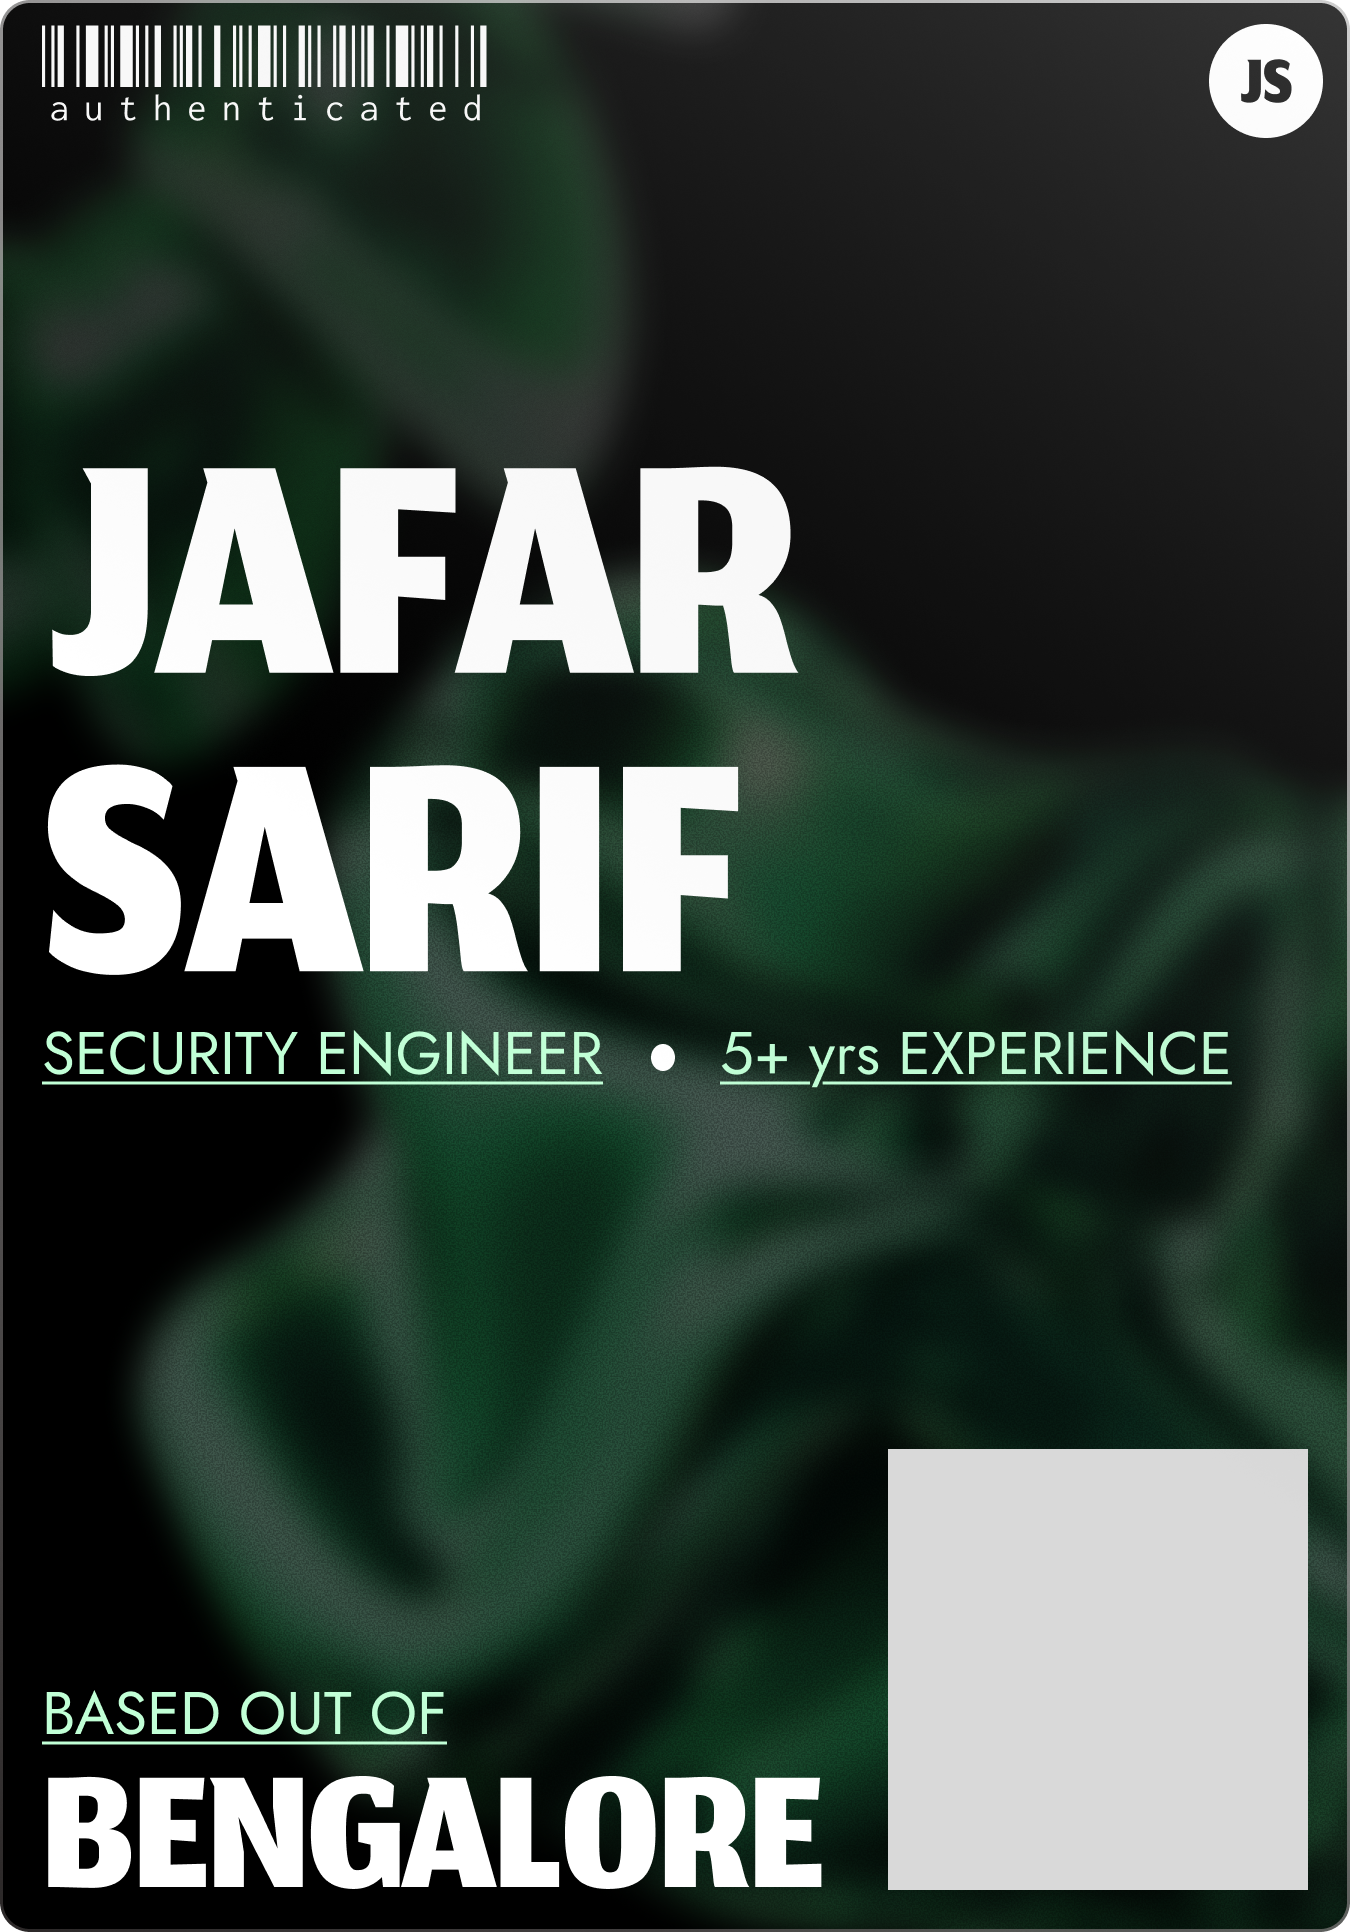
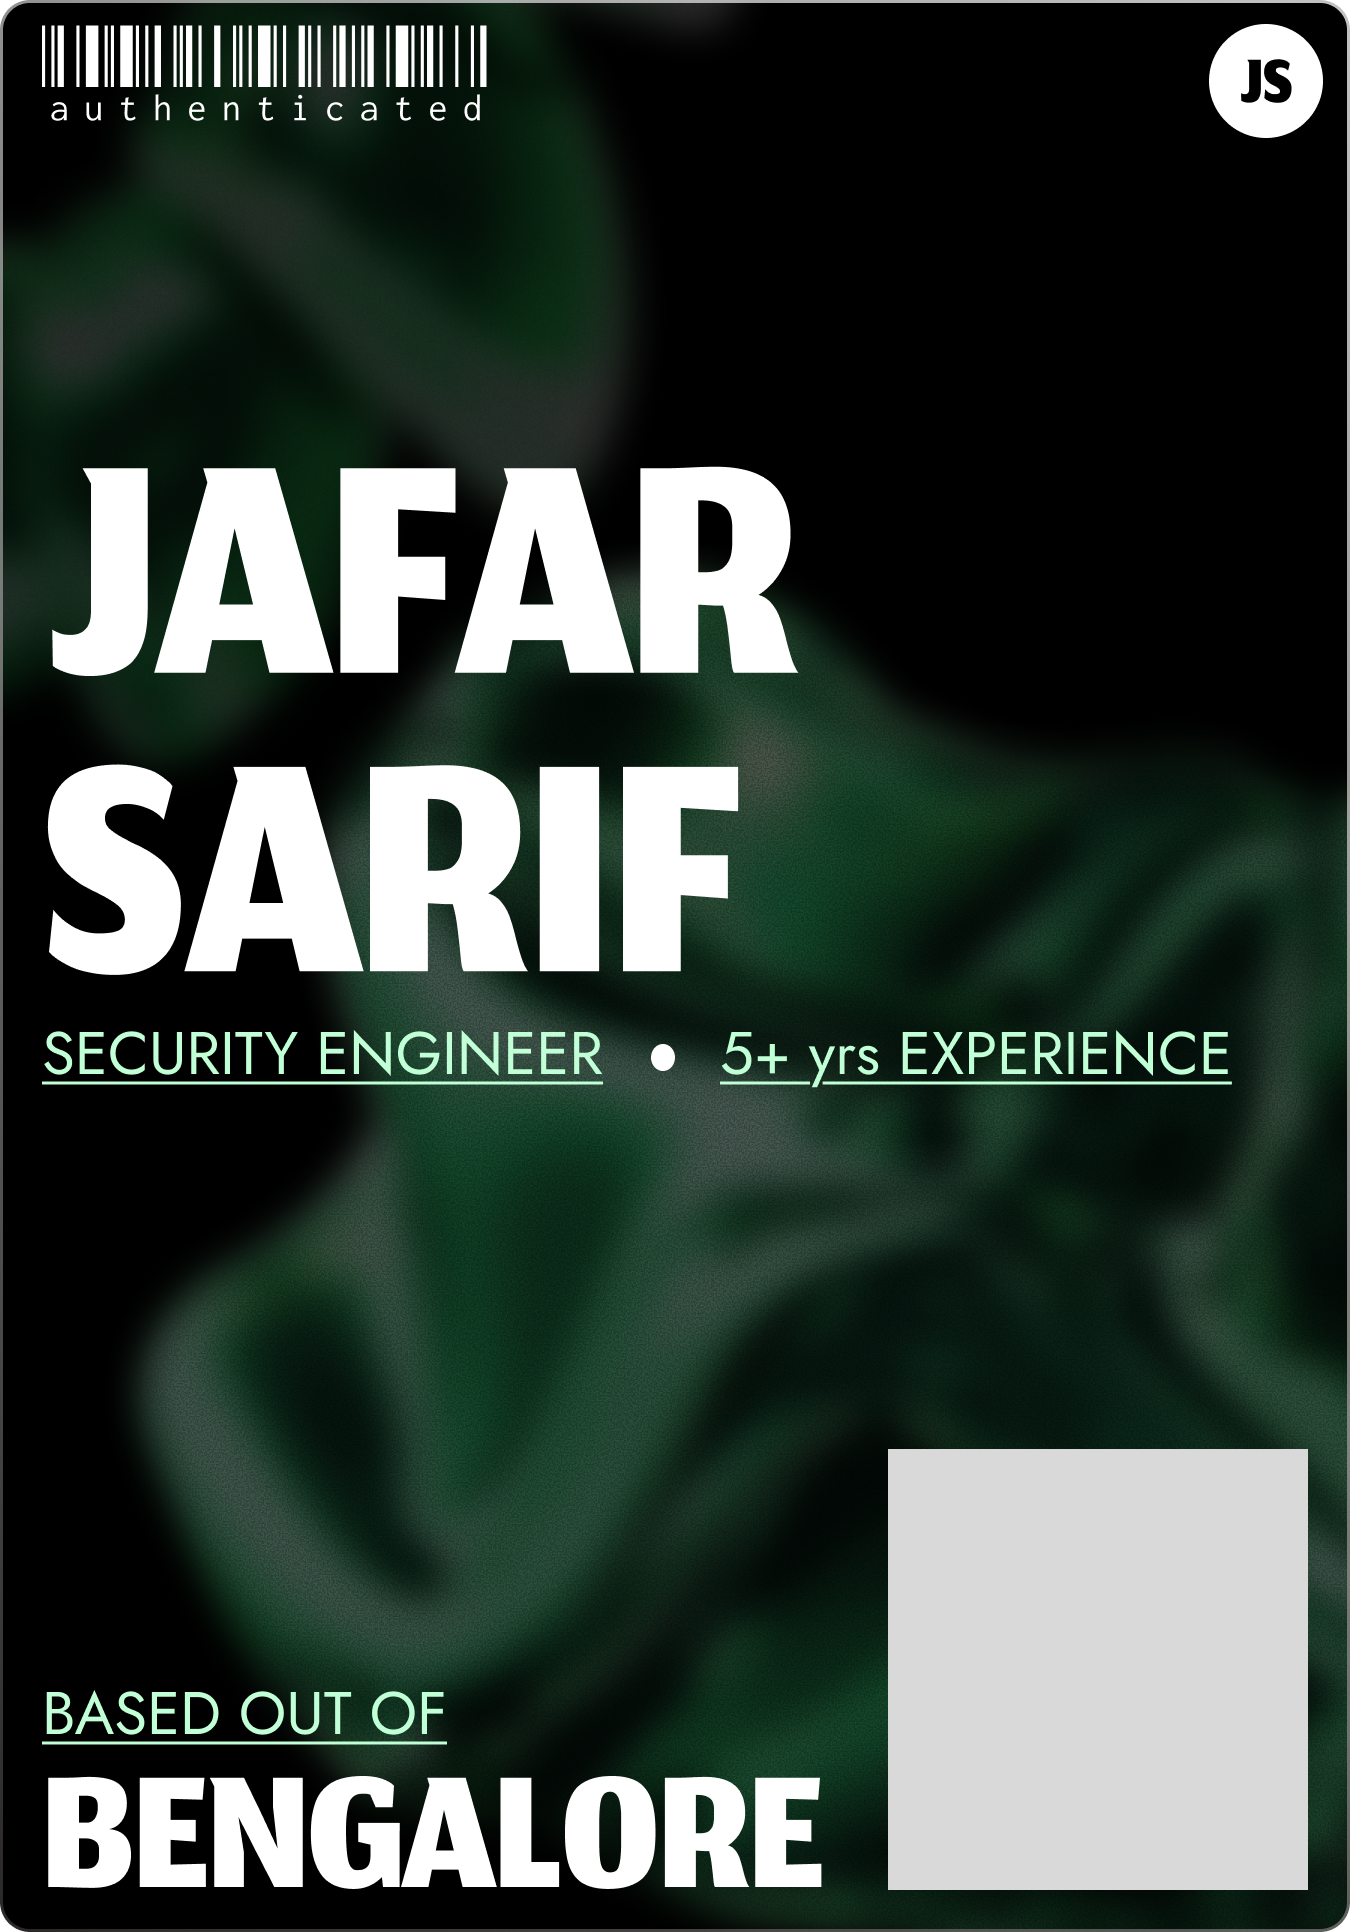
HOMEPAGE FINAL-01

Changed region(s): [[0.3733, 0.0, 1.0, 0.3416]]

diff --git a/app/component/IdCard.tsx b/app/component/IdCard.tsx
@@ -19,7 +19,7 @@ declare module '@react-three/fiber' {
 
 export default function IdCard() {
     return (
-        <div style={{ width: '100vw', height: '100vh', background: '#ffffffff' }}>
+        <div style={{ width: '100vw', height: '100vh', background: 'transparent' }}>
             <Canvas camera={{ position: [0, 0, 13], fov: 25 }}>
                 <ambientLight intensity={Math.PI} />
                 <Suspense fallback={null}>
@@ -117,7 +117,9 @@ function Band({ maxSpeed = 50, minSpeed = 10 }) {
                 )
             })
             // Calculate catmull curve
-            curve.points[0].copy(j3.current.translation())
+            // Shorten the strap endpoint so it doesn't overlap the clip
+            const dir = j2.current.lerped.clone().sub(j3.current.translation()).normalize().multiplyScalar(0.25)
+            curve.points[0].copy(j3.current.translation()).add(dir)
             curve.points[1].copy(j2.current.lerped)
             curve.points[2].copy(j1.current.lerped)
             curve.points[3].copy(fixed.current.translation())
@@ -177,26 +179,26 @@ function Band({ maxSpeed = 50, minSpeed = 10 }) {
                         {/* Clip at top */}
                         {/* Simulated Hole */}
                         <mesh position={[0, 1, 0.01]} rotation={[Math.PI / 2, 0, 0]}>
-                            <cylinderGeometry args={[0.09, 0.09, 0.03, 32]} />
+                            <cylinderGeometry args={[0.07, 0.07, 0.04, 32]} />
                             <meshBasicMaterial color="#000" />
                         </mesh>
 
                         {/* Simple Black Clip */}
-                        <group position={[0, 1.15, 0.3]}>
+                        <group position={[0, 1.1, 0.3]}>
                             {/* Connecting Clamp */}
                             <mesh position={[0, -0.05, 0]}>
-                                <boxGeometry args={[0.08, 0.15, 0.03]} />
-                                <meshStandardMaterial color="#1a1a1a" metalness={0.5} roughness={0.4} />
+                                <boxGeometry args={[0.08, 0.12, 0.04]} />
+                                <meshStandardMaterial color="#111" metalness={0.8} roughness={0.2} />
                             </mesh>
                             {/* Swivel Cylinder */}
                             <mesh position={[0, 0.05, 0]}>
-                                <cylinderGeometry args={[0.05, 0.05, 0.08, 16]} />
-                                <meshStandardMaterial color="#1a1a1a" metalness={0.5} roughness={0.4} />
+                                <cylinderGeometry args={[0.05, 0.05, 0.06, 16]} />
+                                <meshStandardMaterial color="#111" metalness={0.8} roughness={0.2} />
                             </mesh>
                             {/* Top Ring */}
-                            <mesh position={[0, 0.12, 0]} rotation={[0, Math.PI / 2, 0]}>
-                                <torusGeometry args={[0.07, 0.01, 16, 32]} />
-                                <meshStandardMaterial color="#1a1a1a" metalness={0.5} roughness={0.4} />
+                            <mesh position={[0, 0.1, 0]} rotation={[0, Math.PI / 2, 0]}>
+                                <torusGeometry args={[0.06, 0.008, 16, 32]} />
+                                <meshStandardMaterial color="#111" metalness={0.8} roughness={0.2} />
                             </mesh>
                         </group>
                     </group>

diff --git a/app/component/InfiniteText.tsx b/app/component/InfiniteText.tsx
@@ -9,7 +9,7 @@ const InfiniteText = () => {
     const text = "JAFAR'S DOMAIN";
 
     return (
-        <div className="relative flex w-full overflow-hidden bg-transparent py-24">
+        <div className="relative flex w-full overflow-hidden bg-transparent py-19 relative top-80">
             {/* The motion.div contains two sets of the same text. 
         As the first set moves out of view, the second follows, 
         creating the infinite loop illusion.
@@ -27,7 +27,7 @@ const InfiniteText = () => {
                 {[...Array(6)].map((_, i) => (
                     <span
                         key={i}
-                        className={`${gondens.className} text-8xl md:text-[12rem] text-black dark:text-white px-12 tracking-wide uppercase select-none`}
+                        className={`${gondens.className} text-8xl md:text-[12rem] text-white px-12 tracking-wide uppercase select-none`}
                     >
                         {text}
                     </span>

diff --git a/app/page.tsx b/app/page.tsx
@@ -15,14 +15,14 @@ const IdCard = dynamic(() => import('./component/IdCard'), {
 
 export default function Home() {
   return (
-    <div className="flex min-h-screen flex-col bg-zinc-50 font-sans bg-noise overflow-x-hidden">
+    <div className="flex min-h-screen flex-col bg-black font-sans bg-noise overflow-x-hidden">
       {/* 3D Badge Section */}
-      <div className="w-full h-screen">
+      <div className="w-full h-screen relative">
         <IdCard />
       </div>
 
       {/* Carousel at the bottom */}
-      <footer className="w-full mt-[2rem] mb-[1rem]">
+      <footer className="absolute bottom-30 w-full z-10 pointer-events-none">
         <InfiniteText />
       </footer>
     </div>
